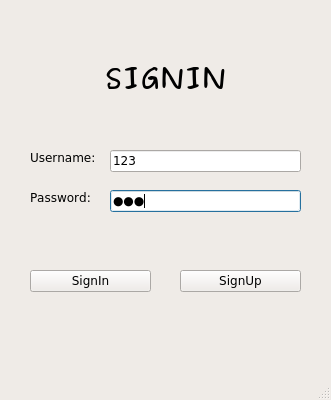
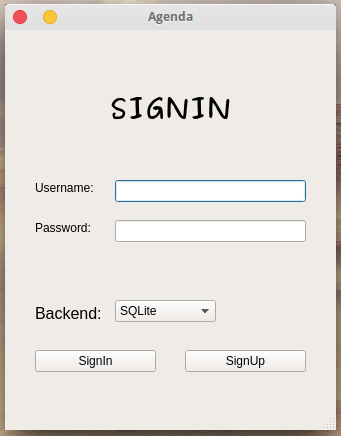
add MIT LISENCE, update README

diff --git a/README.md b/README.md
@@ -1,7 +1,24 @@
 ## IMPLEMENT CODES for SYSU SS TRNG 2014 - Agenda using Qt
 
-I add a Qt front end to the code just for fun!     
-The original terminal based version located in the `backend/` folder.    
+A simple **C++** project for practice, it contains most of the object oriented programming features, such as encapsulation, inheritance, polymorphism, etc. Besides, **SQLite3** and **Qt5** are added, which could help you learn basic database operations and desktop application development. Have Fun!!
+
+![icon](mkpkg/others/icon.png)
+
+### Features 
+
+Agenda is a simple app that can help you manage your daily life. It includes the following useful features:
+
+- [x] User register, delete, login and logout
+- [x] Storage selection: JSON / SQLite
+- [x] List all users, meetings, sponsor meetings and participator meetings
+- [x] Create meeting
+- [x] Delete meeting by title, all meetings
+- [x] Query meeting by title or by time interval
+- [ ] Update meeting information
+- [ ] Desktop notification
+
+### Install
+
 
 
 ```sh
@@ -16,7 +33,7 @@ sudo apt install libsqlite3-dev
 ![](backend/pic/5.png)
 
 
-# For Developer
+### For Developer
 
 This project is developed using Qt5
 
@@ -25,3 +42,9 @@ export PATH=/opt/Qt5.7.0/5.7/gcc_64/bin:$PATH
 qmake Agenda.pro -r -spec linux-g++
 make
 ```
+
+### Update History
+
+* **May 5th, 2016:** First commit.
+* **Oct. 1st, 2016:** Add Qt5 front end, the original terminal based version was moved to subfolder `backend/`.
+* **May 24th, 2017:** Add sqlite3 back end in order to adopt [Polymorphism](https://en.wikipedia.org/wiki/Polymorphism_(computer_science) and [Inheritance](https://en.wikipedia.org/wiki/Inheritance_(object-oriented_programming)) features to this project; fine tune UI.

diff --git a/LICENSE.md b/LICENSE.md
@@ -1,0 +1,21 @@
+MIT License
+
+Copyright (c) 2017 Donald (ydchen@yahoo.com)
+
+Permission is hereby granted, free of charge, to any person obtaining a copy
+of this software and associated documentation files (the "Software"), to deal
+in the Software without restriction, including without limitation the rights
+to use, copy, modify, merge, publish, distribute, sublicense, and/or sell
+copies of the Software, and to permit persons to whom the Software is
+furnished to do so, subject to the following conditions:
+
+The above copyright notice and this permission notice shall be included in all
+copies or substantial portions of the Software.
+
+THE SOFTWARE IS PROVIDED "AS IS", WITHOUT WARRANTY OF ANY KIND, EXPRESS OR
+IMPLIED, INCLUDING BUT NOT LIMITED TO THE WARRANTIES OF MERCHANTABILITY,
+FITNESS FOR A PARTICULAR PURPOSE AND NONINFRINGEMENT. IN NO EVENT SHALL THE
+AUTHORS OR COPYRIGHT HOLDERS BE LIABLE FOR ANY CLAIM, DAMAGES OR OTHER
+LIABILITY, WHETHER IN AN ACTION OF CONTRACT, TORT OR OTHERWISE, ARISING FROM,
+OUT OF OR IN CONNECTION WITH THE SOFTWARE OR THE USE OR OTHER DEALINGS IN THE
+SOFTWARE.
